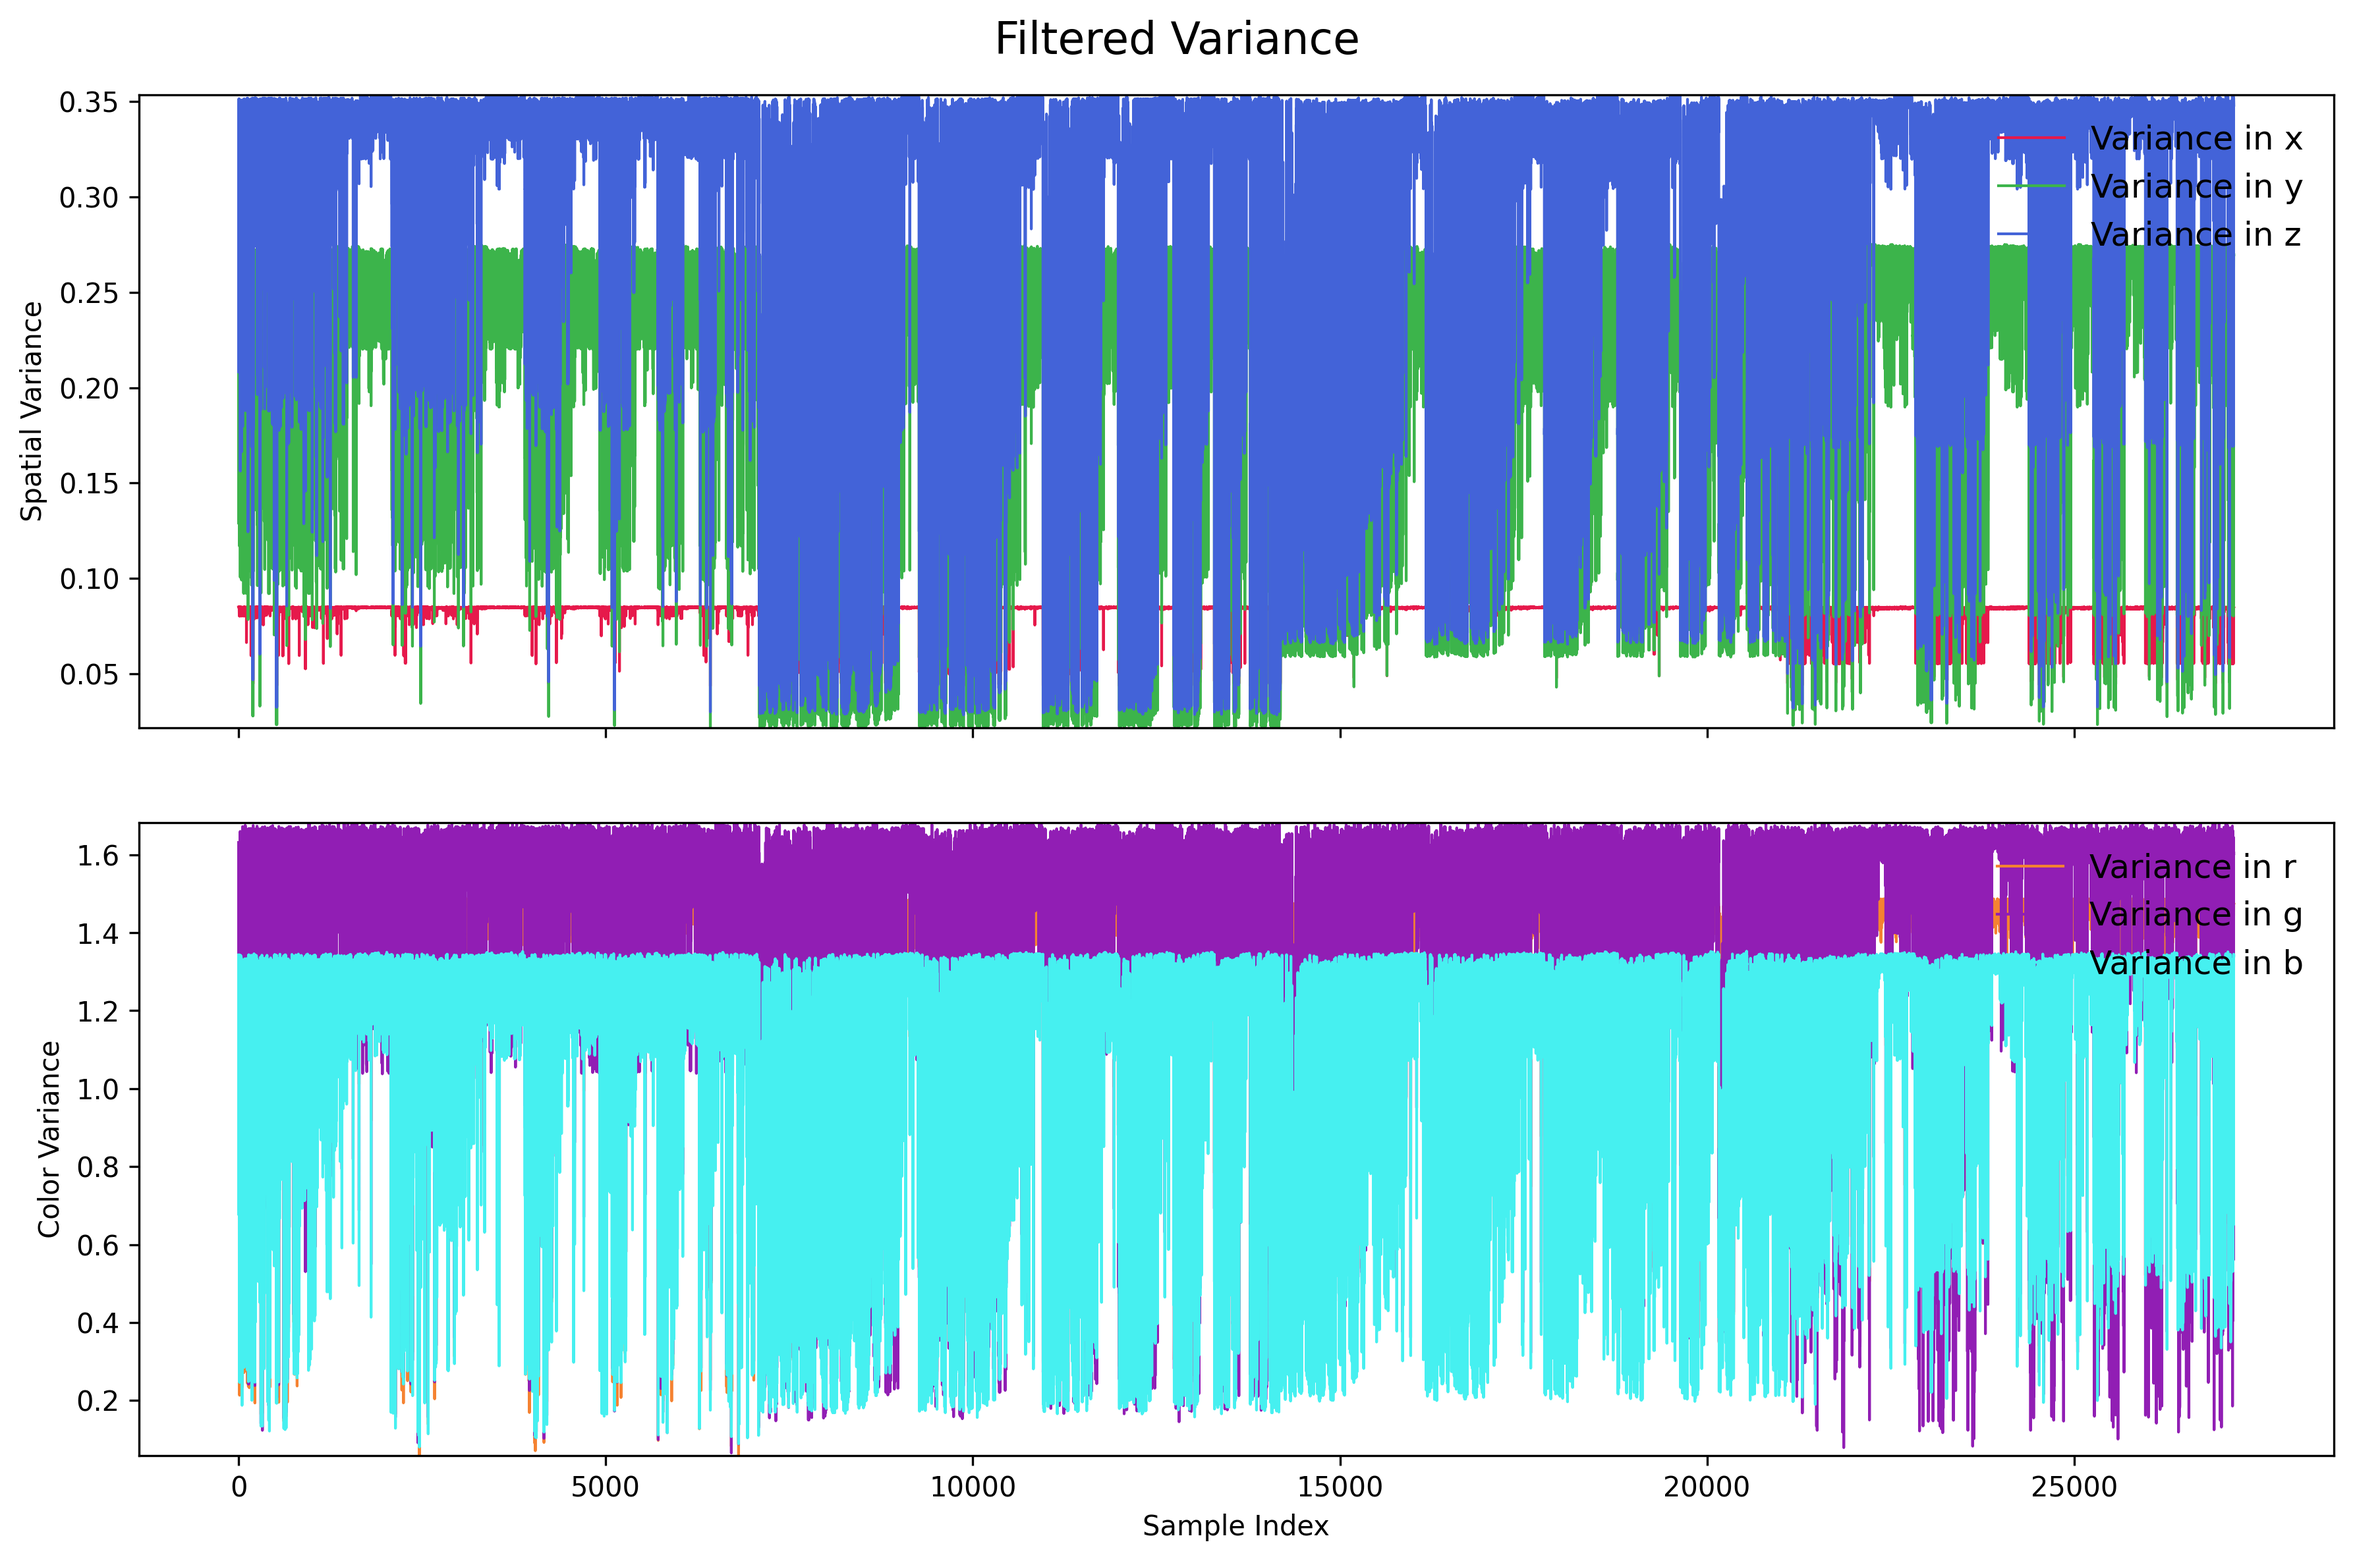
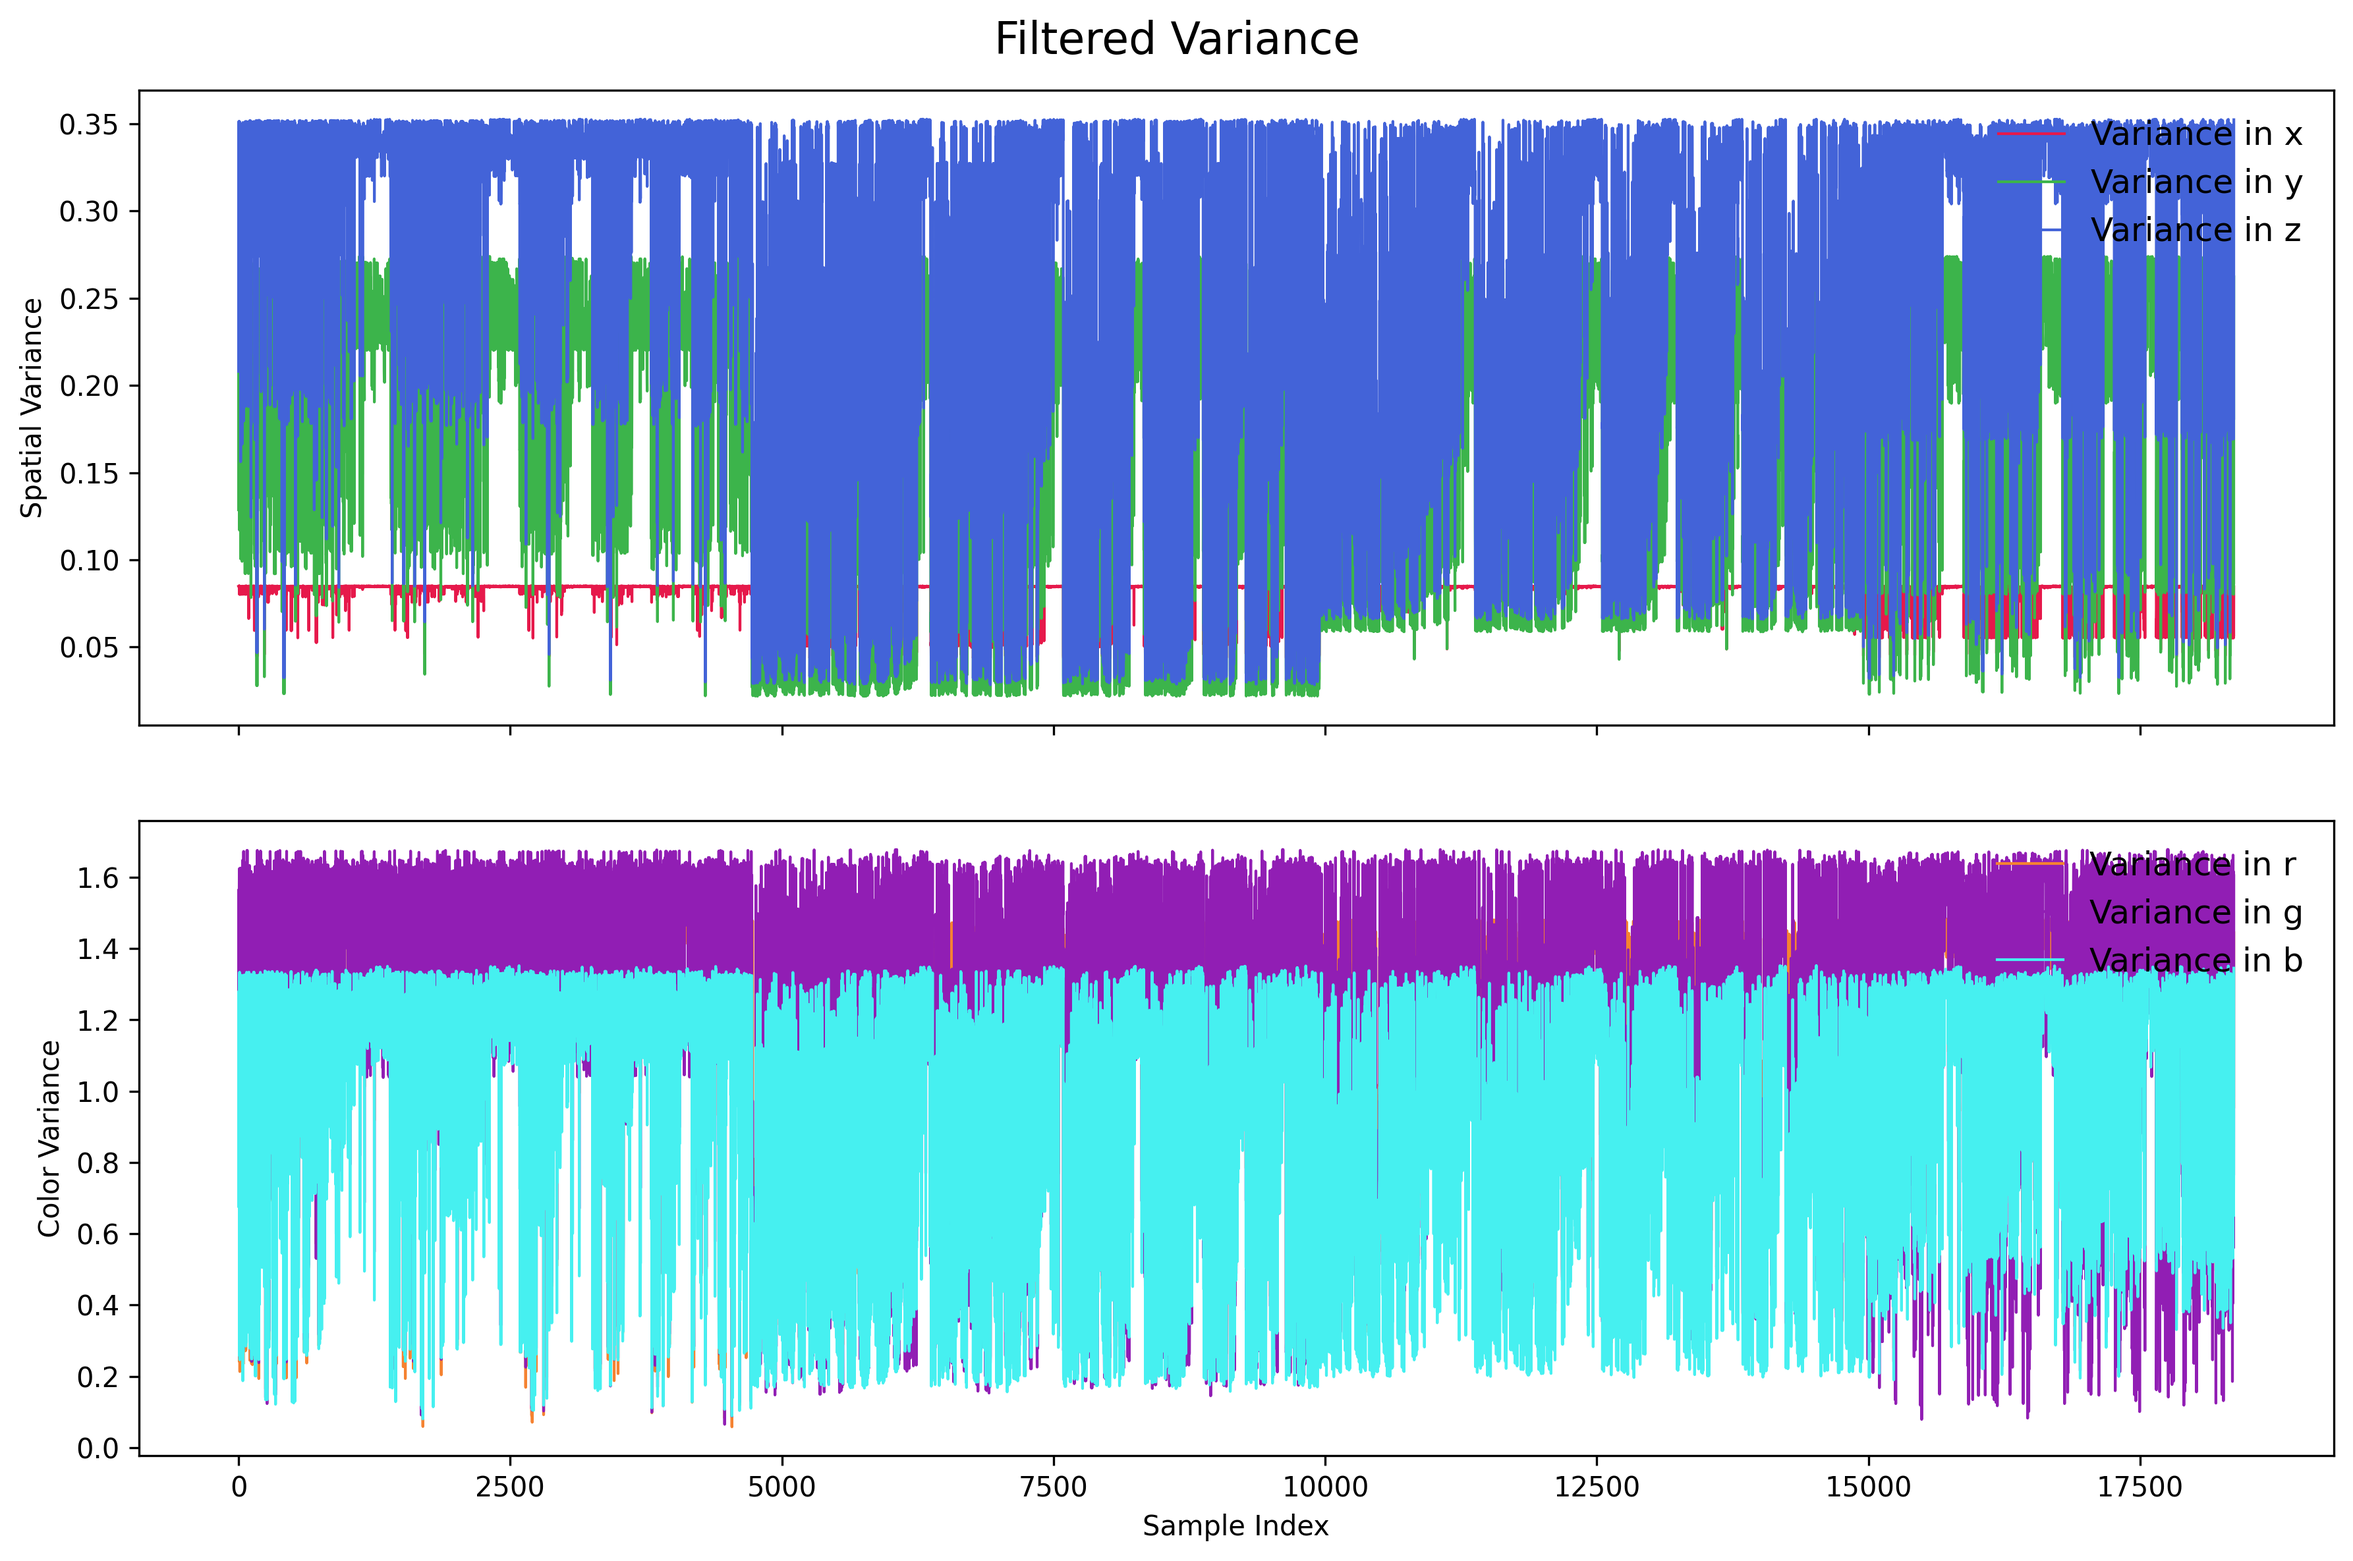
increased percentile from 74 to 50

diff --git a/MOGP/rewrite_images_sfm.py b/MOGP/rewrite_images_sfm.py
@@ -2,6 +2,14 @@ import numpy as np
 import open3d as o3d
 import matplotlib.pyplot as plt
 import re
+import os
+from config import POINTS3D_PATH, IMAGES_TXT_PATH, DEPTH_FILE_PATH
+
+
+file_path_points3d = POINTS3D_PATH
+file_path_images = IMAGES_TXT_PATH
+depth_file_path = DEPTH_FILE_PATH
+
 def find_max_point_id(file_path):
     max_point_id = 0
     with open(file_path, 'r') as file:
@@ -22,7 +30,8 @@ def count_3d_points(file_path):
                 continue
             count += 1
     return count
-file_path_points3d = '/home/staff/zhihao/Downloads/3dgs/mogp/gp_evaluation/nerf_sythetic/ship/sparse/0/points3D.txt'
+
+
 num_3d_points = count_3d_points(file_path_points3d)
 print("Number of 3D points:", num_3d_points)
 
@@ -44,7 +53,7 @@ def load_points3D(file_path):
             points3d_dict[point_id] = [x, y, z, r / 255.0, g / 255.0, b / 255.0]
     return points3d_dict
 
-file_path_points3d = '/home/staff/zhihao/Downloads/3dgs/mogp/gp_evaluation/nerf_sythetic/ship/sparse/0/points3D.txt'
+
 points3d_dict = load_points3D(file_path_points3d)
 
 def update_images_txt_optimized(images_txt_path, predictions):
@@ -100,7 +109,7 @@ def parse_images_file(file_path, points3d_dict):
     return valid_data
 
 
-file_path_images = '/home/staff/zhihao/Downloads/3dgs/mogp/gp_evaluation/nerf_sythetic/ship/sparse/0/images.txt'
+
 valid_data = parse_images_file(file_path_images, points3d_dict)
 
 
@@ -175,8 +184,9 @@ def generate_test_data(valid_data, depth_file_path, radius_factor=0.2, num_sampl
 
         return data_by_image
 
-depth_file_path = '/home/staff/zhihao/Downloads/3dgs/mogp/gp_evaluation/nerf_sythetic/ship/depth/m.npy'
 
+
+#NEED TO MAKE THIS DYNAMIC 
 data_by_image_new = generate_test_data(valid_data,depth_file_path)
 test_data_normalized_new = data_by_image_new['000072.png']['test']
 predicted_var = np.load('/home/staff/zhihao/Downloads/3dgs/mogp/gp_evaluation/nerf_sythetic/ship/gp/72test_var.npy')[0]

diff --git a/MOGP/vis_var.py b/MOGP/vis_var.py
@@ -1,7 +1,7 @@
 import numpy as np
 import matplotlib.pyplot as plt
 import os
-from config import TEST_VAR, PREDICT_MEAN
+from config import POINTS3D_PATH, IMAGES_TXT_PATH, DEPTH_FILE_PATH, BASE_DIR, SCENE_NAME, TEST_VAR, PREDICT_MEAN
 
 # Load the predicted variance data
 predicted_var = np.load(TEST_VAR)[0]
@@ -15,7 +15,7 @@ os.makedirs(var_figure_dir, exist_ok=True)
 # Filtering based on mean RGB variance
 rgb_var = predicted_variance[:, 3:6]
 mean_rgb_var = np.mean(rgb_var, axis=1)
-threshold = np.percentile(mean_rgb_var, 74)
+threshold = np.percentile(mean_rgb_var, 50)
 filtered_indices = mean_rgb_var <= threshold
 filtered_variance = predicted_variance[filtered_indices]
 
@@ -59,9 +59,9 @@ def plot_variances(variance, title_prefix, save_path, ylims=None):
     plt.close()
 
 # Plot unfiltered
-plot_variances(predicted_variance, "Unfiltered", os.path.join(var_figure_dir, "variance_plots_unfiltered.png"), ylims=ylims)
+plot_variances(predicted_variance, "Unfiltered", os.path.join(var_figure_dir, "variance_plots_unfiltered.png"))
 # Plot filtered
-plot_variances(filtered_variance, "Filtered", os.path.join(var_figure_dir, "variance_plots_filtered.png"), ylims=ylims)
+plot_variances(filtered_variance, "Filtered", os.path.join(var_figure_dir, "variance_plots_filtered.png"))
 
 
 

diff --git a/MOGP/mogp_train.py b/MOGP/mogp_train.py
@@ -18,8 +18,6 @@ from config import (
     BASE_DIR,
     SCENE_NAME
 )
-RADIUS = 0.4
-DYNAMIC_MVNTS = 10
 TEST_SIZE = 0.2
 RANDOM_STATE = 42
 TRAINING_ITERATIONS = 300
